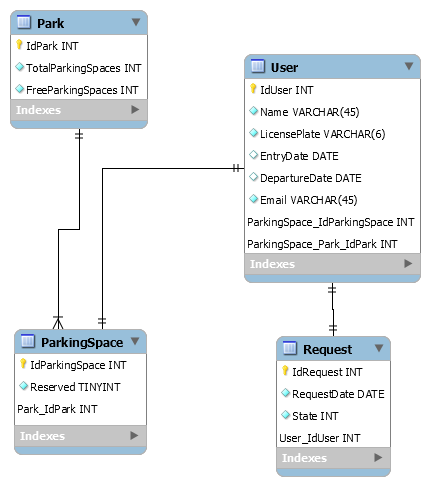
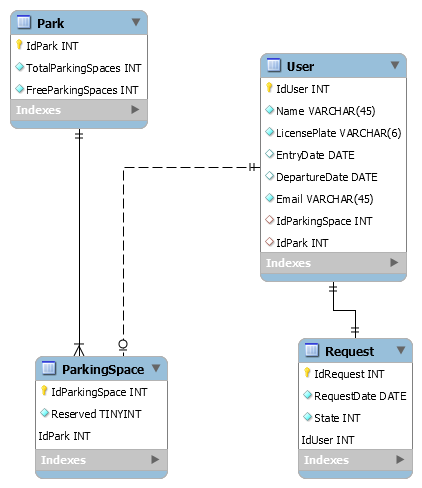
Problema da tabela User resolvido, Alteração na base de dados
Funções ainda por testar

diff --git a/SmartParking/src/DataBase/DBConnection.java b/SmartParking/src/DataBase/DBConnection.java
@@ -103,7 +103,7 @@ public class DBConnection {
 
     public void addUser(User users) { //Adicionar utilizador
         sql = "INSERT INTO User(name, licensePlate, entryDate, departureDate, email, IdParkingSpace, IdPark)"
-                + " VALUES(?,?,?,?,?, 0,?)";
+                + " VALUES(?,?,?,?,?, null,?)";
 
         try {
             PreparedStatement stmt = connection.prepareStatement(sql);
@@ -227,8 +227,7 @@ public class DBConnection {
     public static void main(String[] args) {
         DBConnection dbConnection = new DBConnection("localhost", "3306");
 
-        dbConnection.addUser(new User("Diogo Branco", "69DB44", null, null,
-                "diogo@gmail.com", 0));
+        //dbConnection.addUser(new User("Diogo Branco", "69DB44", null, null, "diogo@gmail.com", 0));
 
         //Teste getParkList()
         ArrayList<Park> parks = dbConnection.getParkList();
